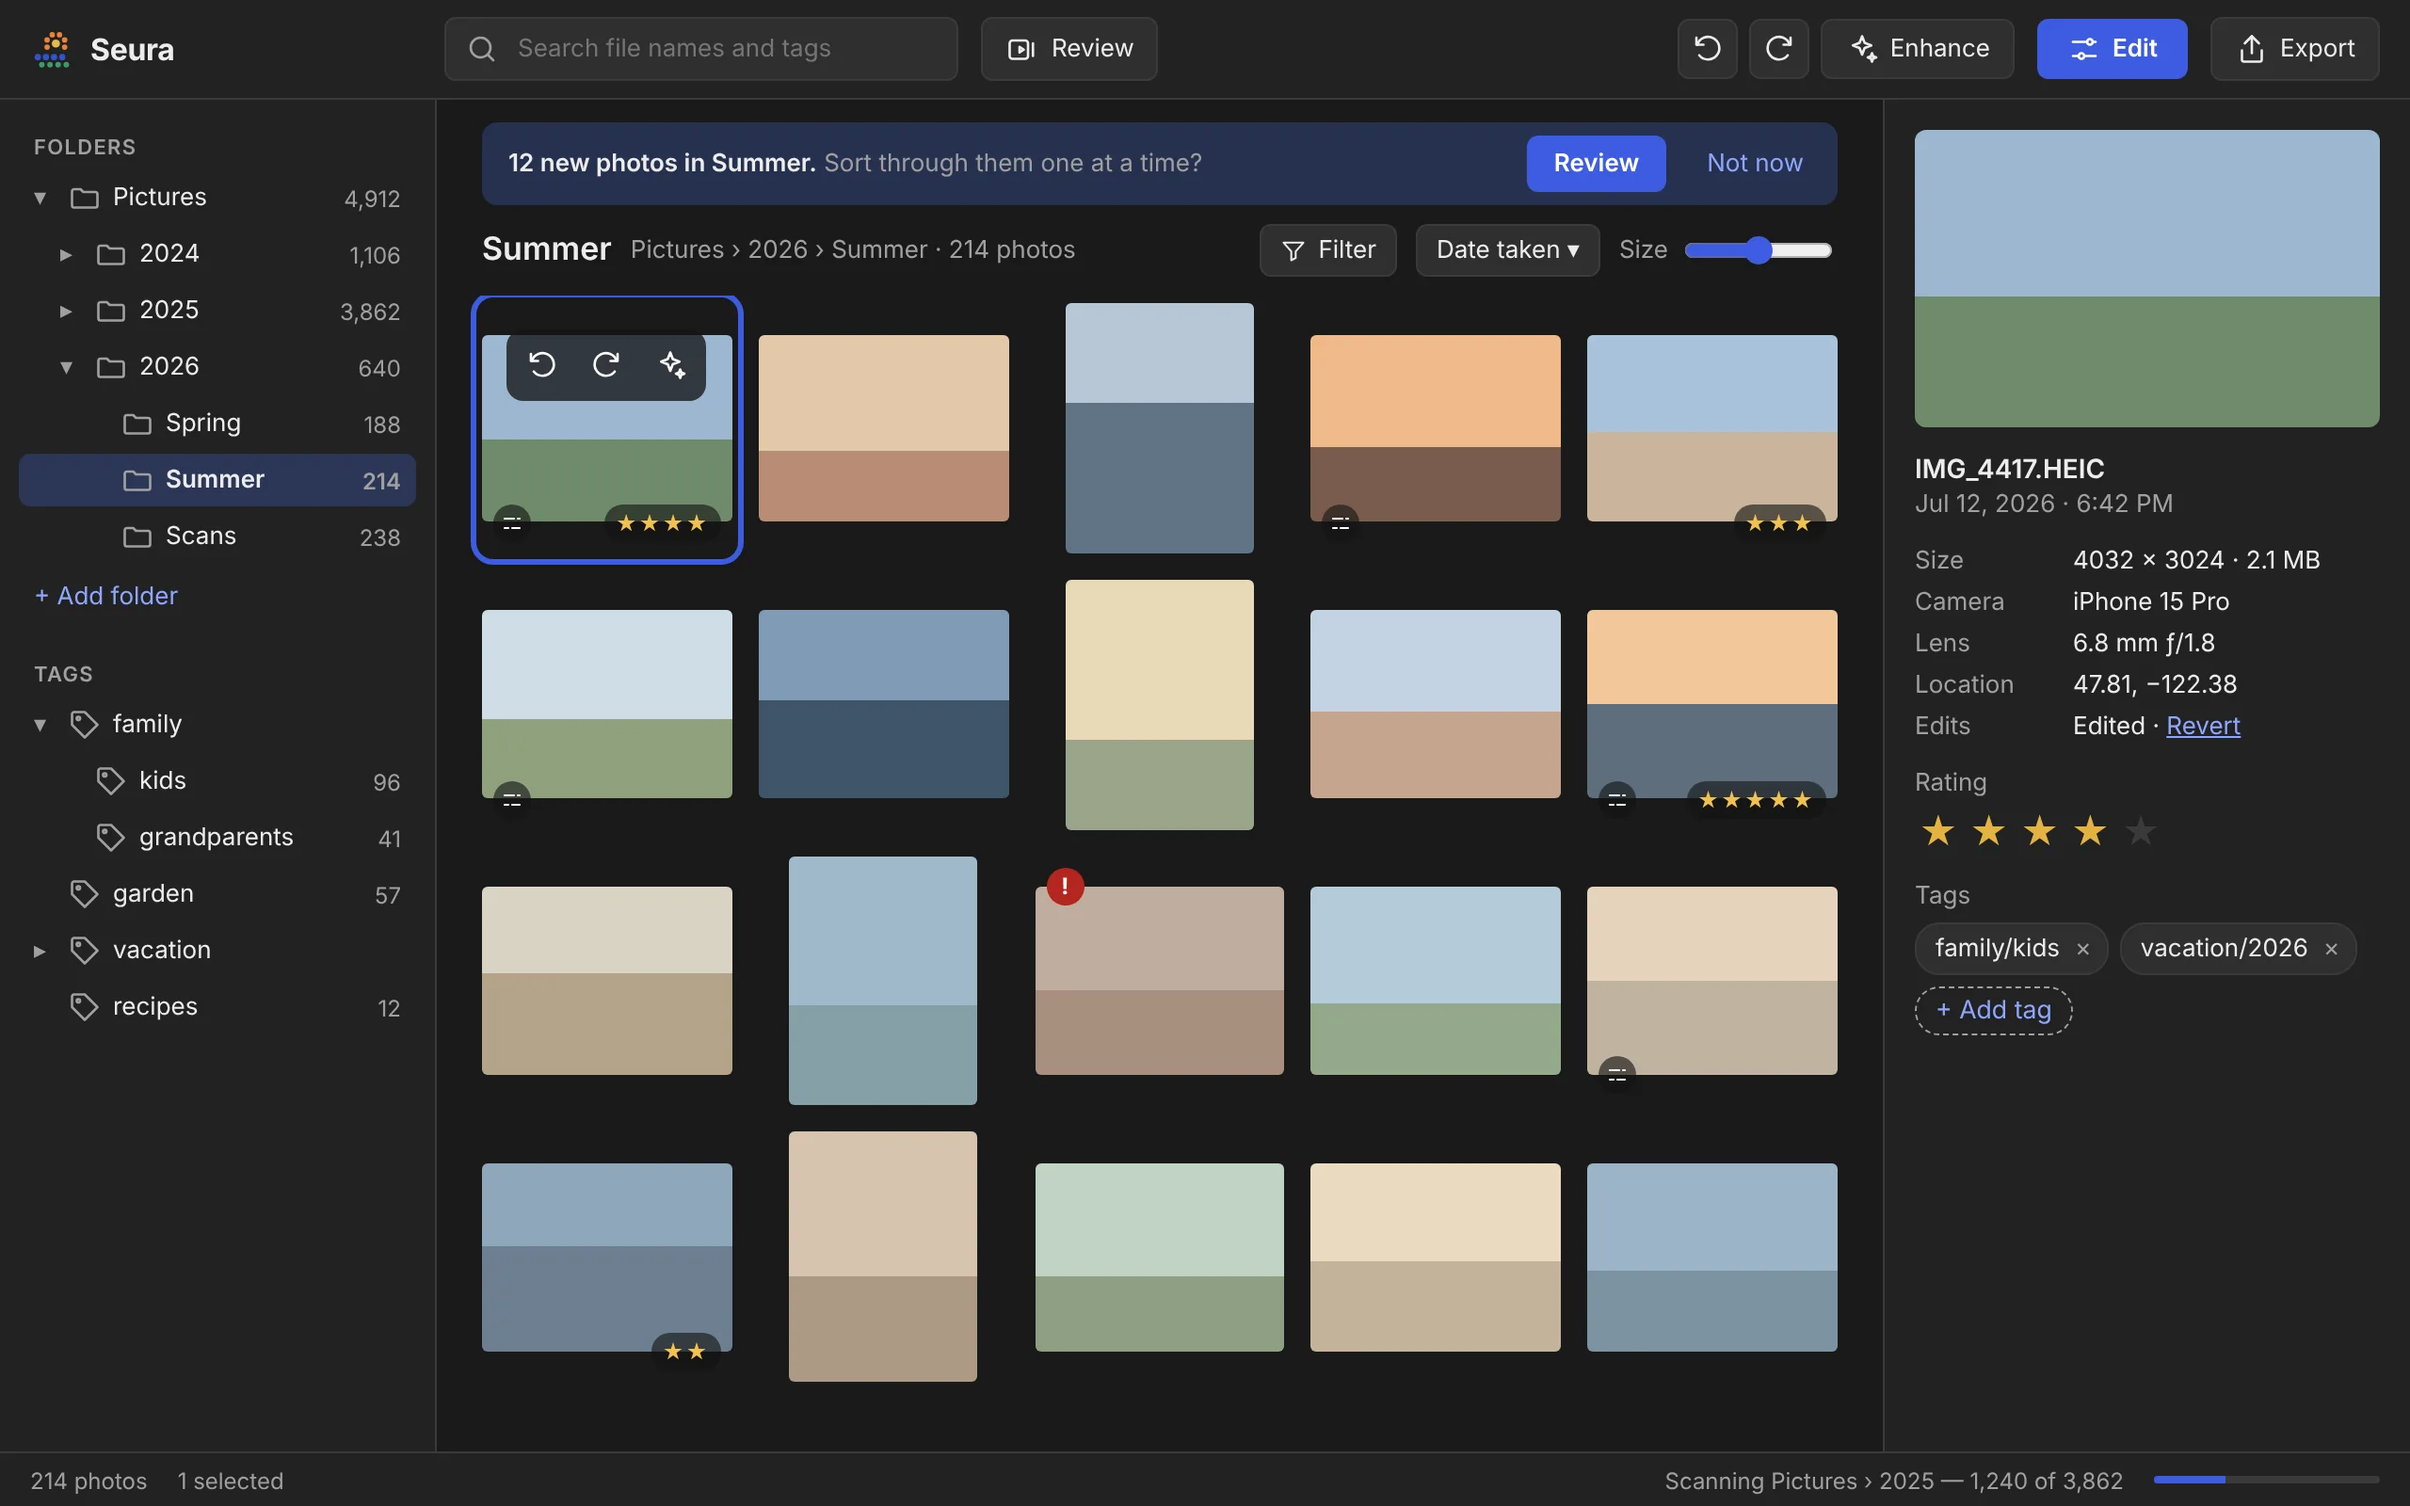
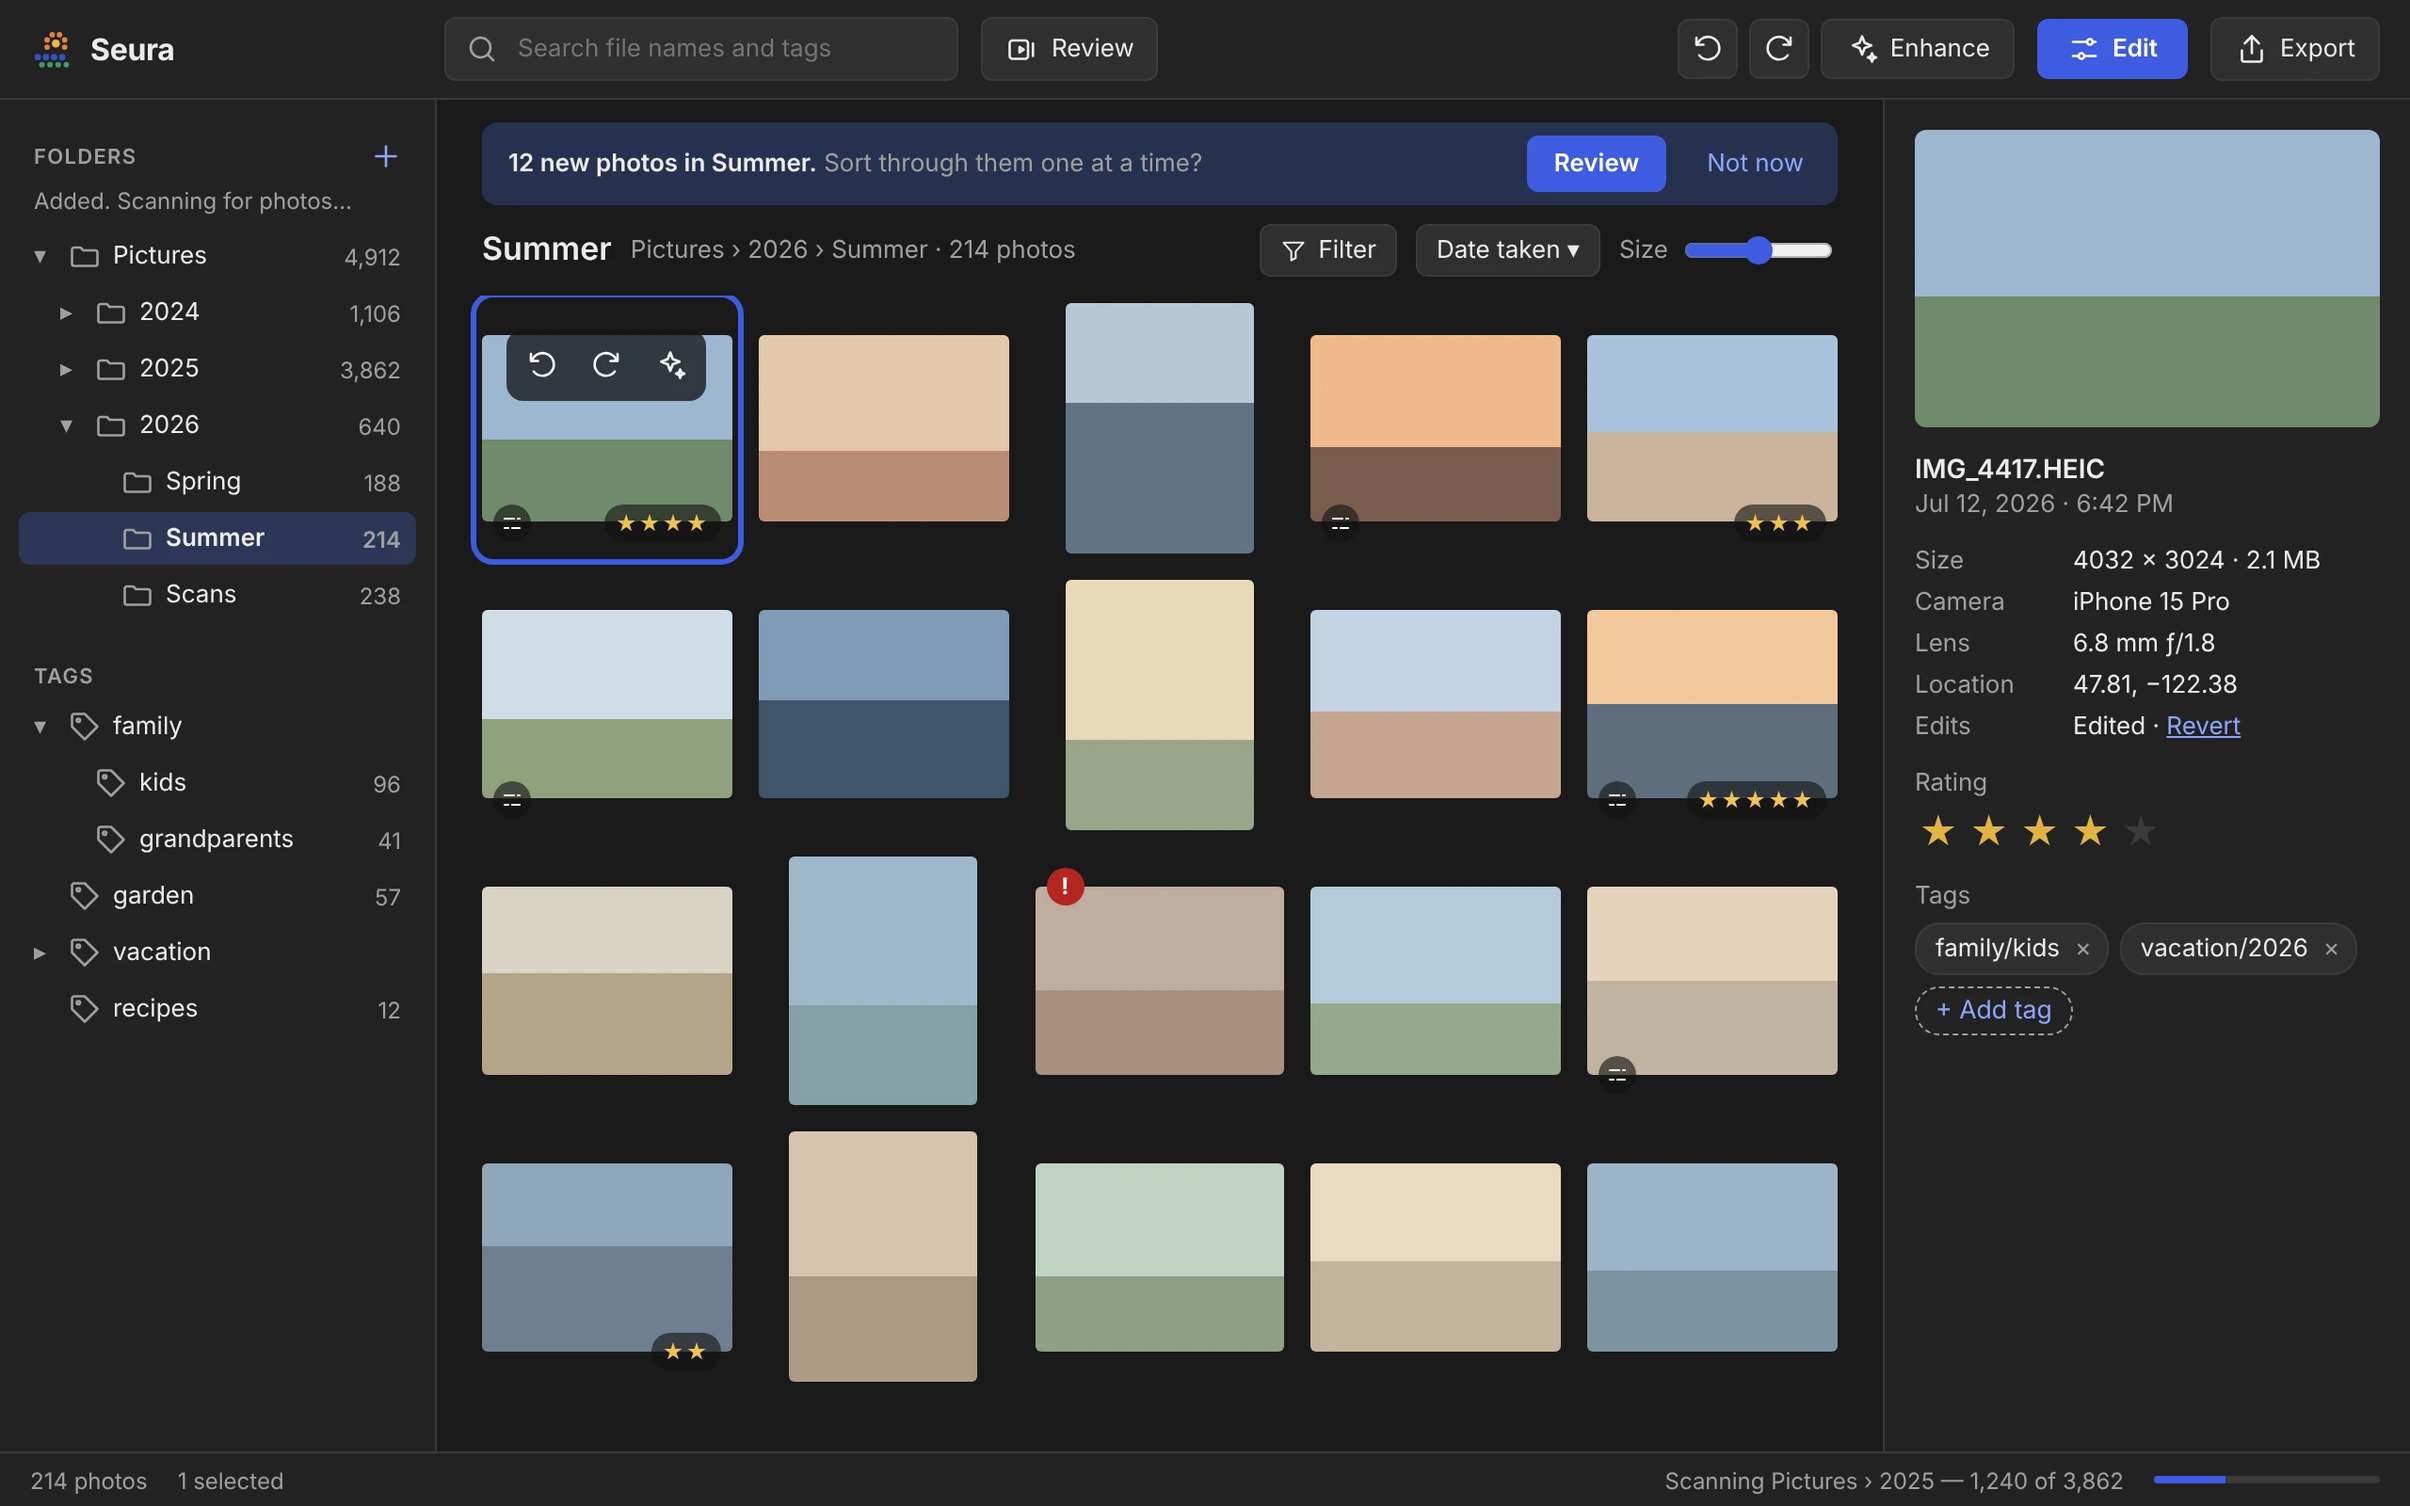
Mockups: Add folder in the FOLDERS heading (LIB-1)
Follows #52: the styled Library mockups (light and dark) and the Library
wireframes now show a + button in a sticky FOLDERS heading, with the last
action's notice under it, instead of "+ Add folder" under the tree. The
wireframes document records the change and its reason.

Claude-Session: https://claude.ai/code/session_01S3MFyAFK74DFrLfWJvQiDx

diff --git a/docs/ux/wireframes.md b/docs/ux/wireframes.md
@@ -9,7 +9,7 @@ All screens were drawn at 1280×800 logical pixels, close to the 1280×720 minim
 ## Shared structure
 
 - **Toolbar** (52 px) across the top of every view; **status bar** (28 px) at the bottom of the Library and Viewer.
-- **Sidebar** (232 px; 260 px at 1920 wide): FOLDERS tree, then TAGS tree, each row with a count.
+- **Sidebar** (232 px; 260 px at 1920 wide): FOLDERS tree, then TAGS tree, each row with a count. The FOLDERS heading has an Add folder button (+, 32 px, accent color) at its right and stays in view while the tree scrolls; the last action's one-line notice (for example "Added. Scanning for photos…") shows under it. A link at the end of the tree scrolled out of sight with many folders, and a button pinned to the bottom of the sidebar would end up below TAGS in M3. TAGS can follow the same pattern if tags get an add action (Nevada, 2026-10-23).
 - **Info panel** (280 px; 320 px at 1920 wide), always shown in Library and Viewer: preview, file name, date, size, camera, lens, location, edit state with Revert, rating stars, tag chips with Add tag.
 - Dark surround (#2b2d30 in the wireframes) behind photos in the Viewer, Editor, and Review, so photos aren't judged against a bright frame.
 - Control sizes are fixed across window sizes; only photo areas and panel widths grow.

diff --git a/docs/ux/mockups/README.md b/docs/ux/mockups/README.md
@@ -1,6 +1,6 @@
 # Mockups
 
-Images of the screens on the design canvas, for checking each slice against. Rendered from the canvas on 2026-10-20; the canvas is the source, and these are refreshed when it changes. The photos are placeholders.
+Images of the screens on the design canvas, for checking each slice against. Rendered from the canvas on 2026-10-20, with the Library images refreshed on 2026-10-23 (Add folder in the FOLDERS heading); the canvas is the source, and these are refreshed when it changes. The photos are placeholders.
 
 **Styled** (visual design, `docs/visual-design.md`), each in light and dark:
 
